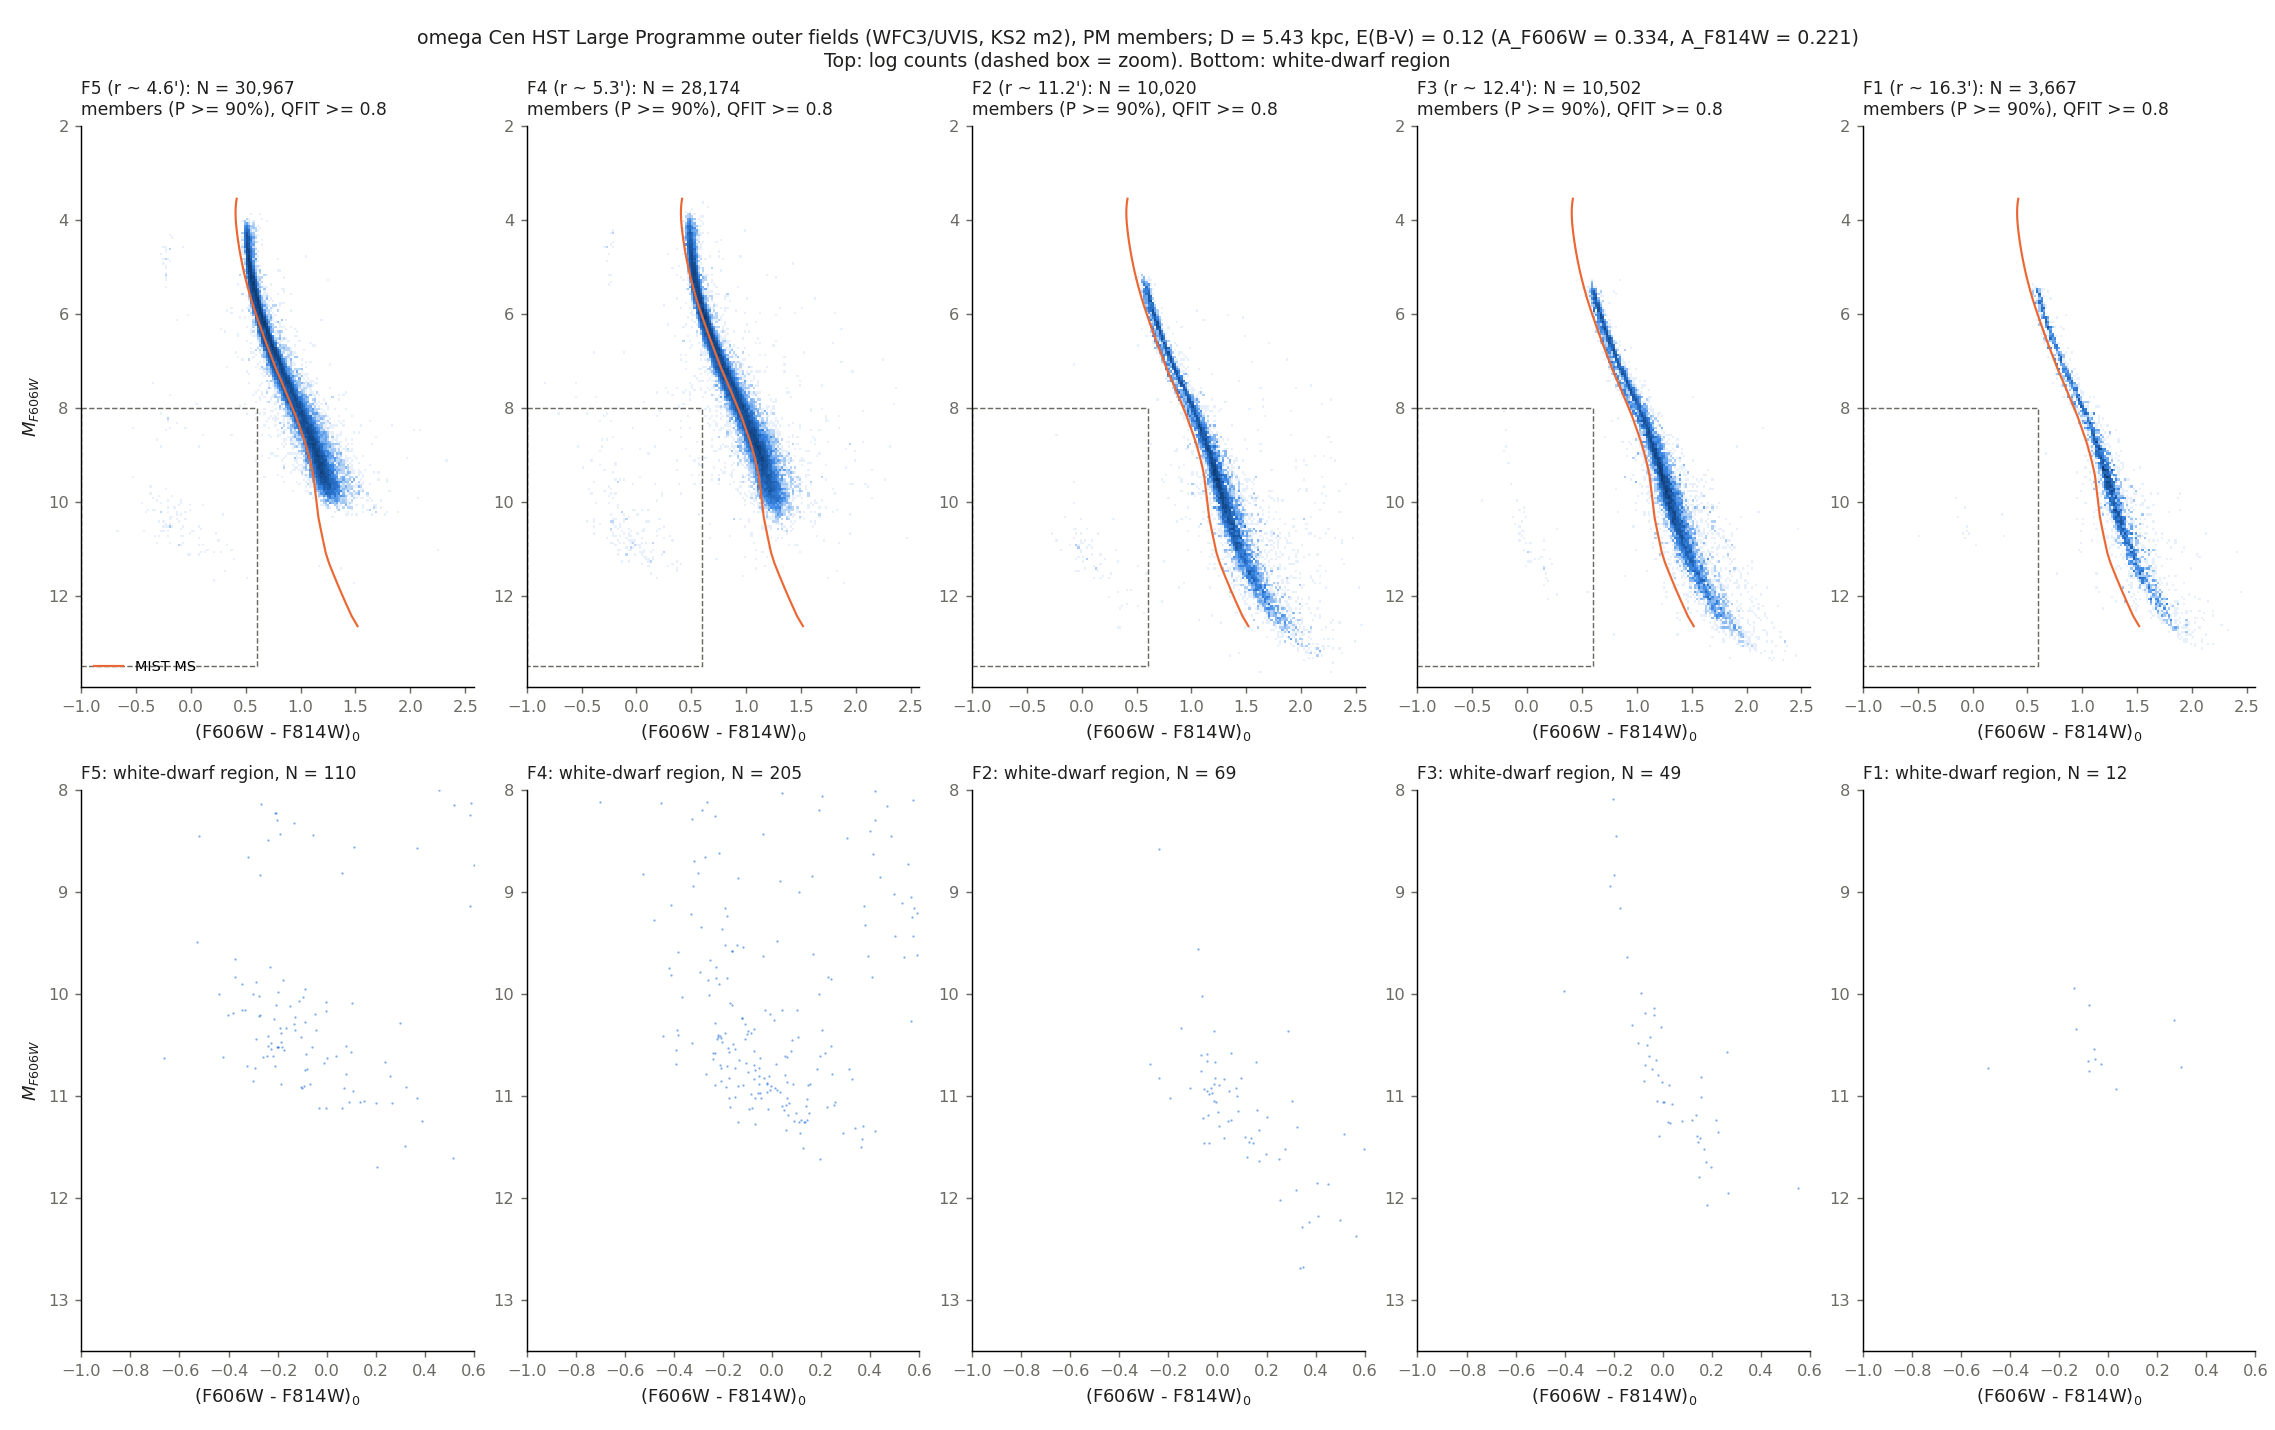
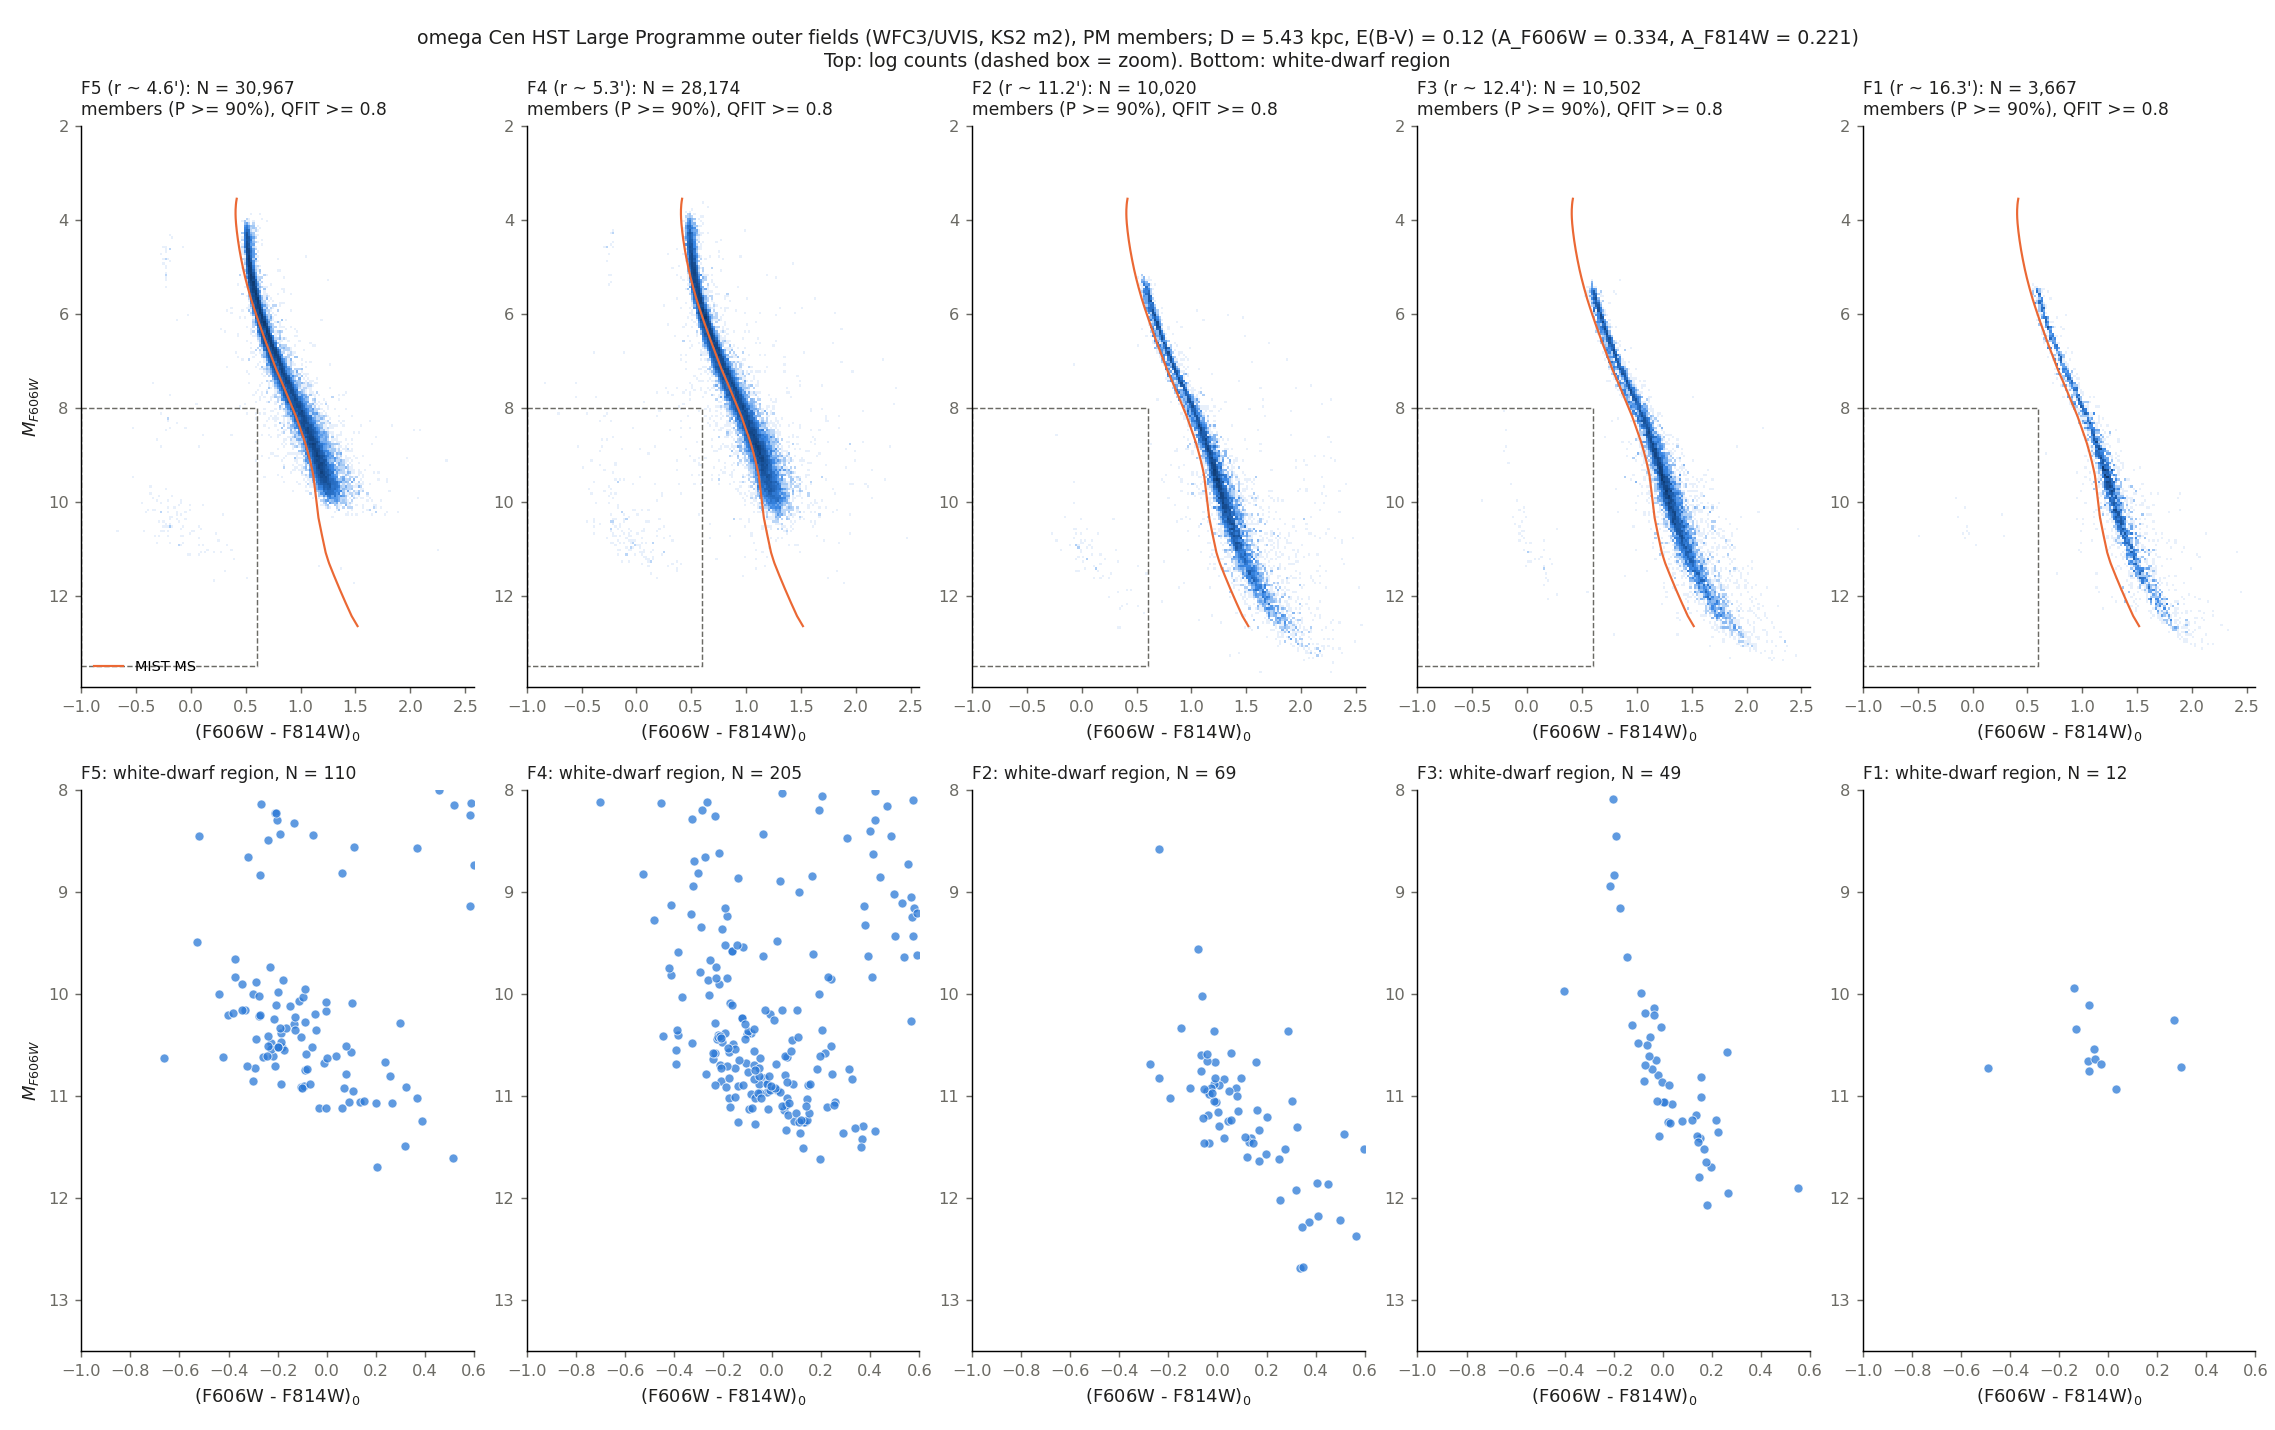
HST LP CMDs: larger white-dwarf markers

diff --git a/bin/plot_hst_lp_cmds.py b/bin/plot_hst_lp_cmds.py
@@ -115,7 +115,7 @@ def main():
         if i == 0:
             ax.legend(fontsize=8, frameon=False, loc="lower left")
         ax = axes[1, i]
-        ax.plot(col[wd], M[wd], ".", color="#2a78d6", ms=2.5, alpha=0.6, mew=0, rasterized=True)
+        ax.plot(col[wd], M[wd], "o", color="#2a78d6", ms=5, alpha=0.75, mec="white", mew=0.5)
         ax.set_xlim(-1.0, 0.6); ax.set_ylim(13.5, 8)
         ax.set_title(f"{field}: white-dwarf region, N = {wd.sum():,}", fontsize=9.5, color=INK, loc="left")
         for row in (0, 1):
